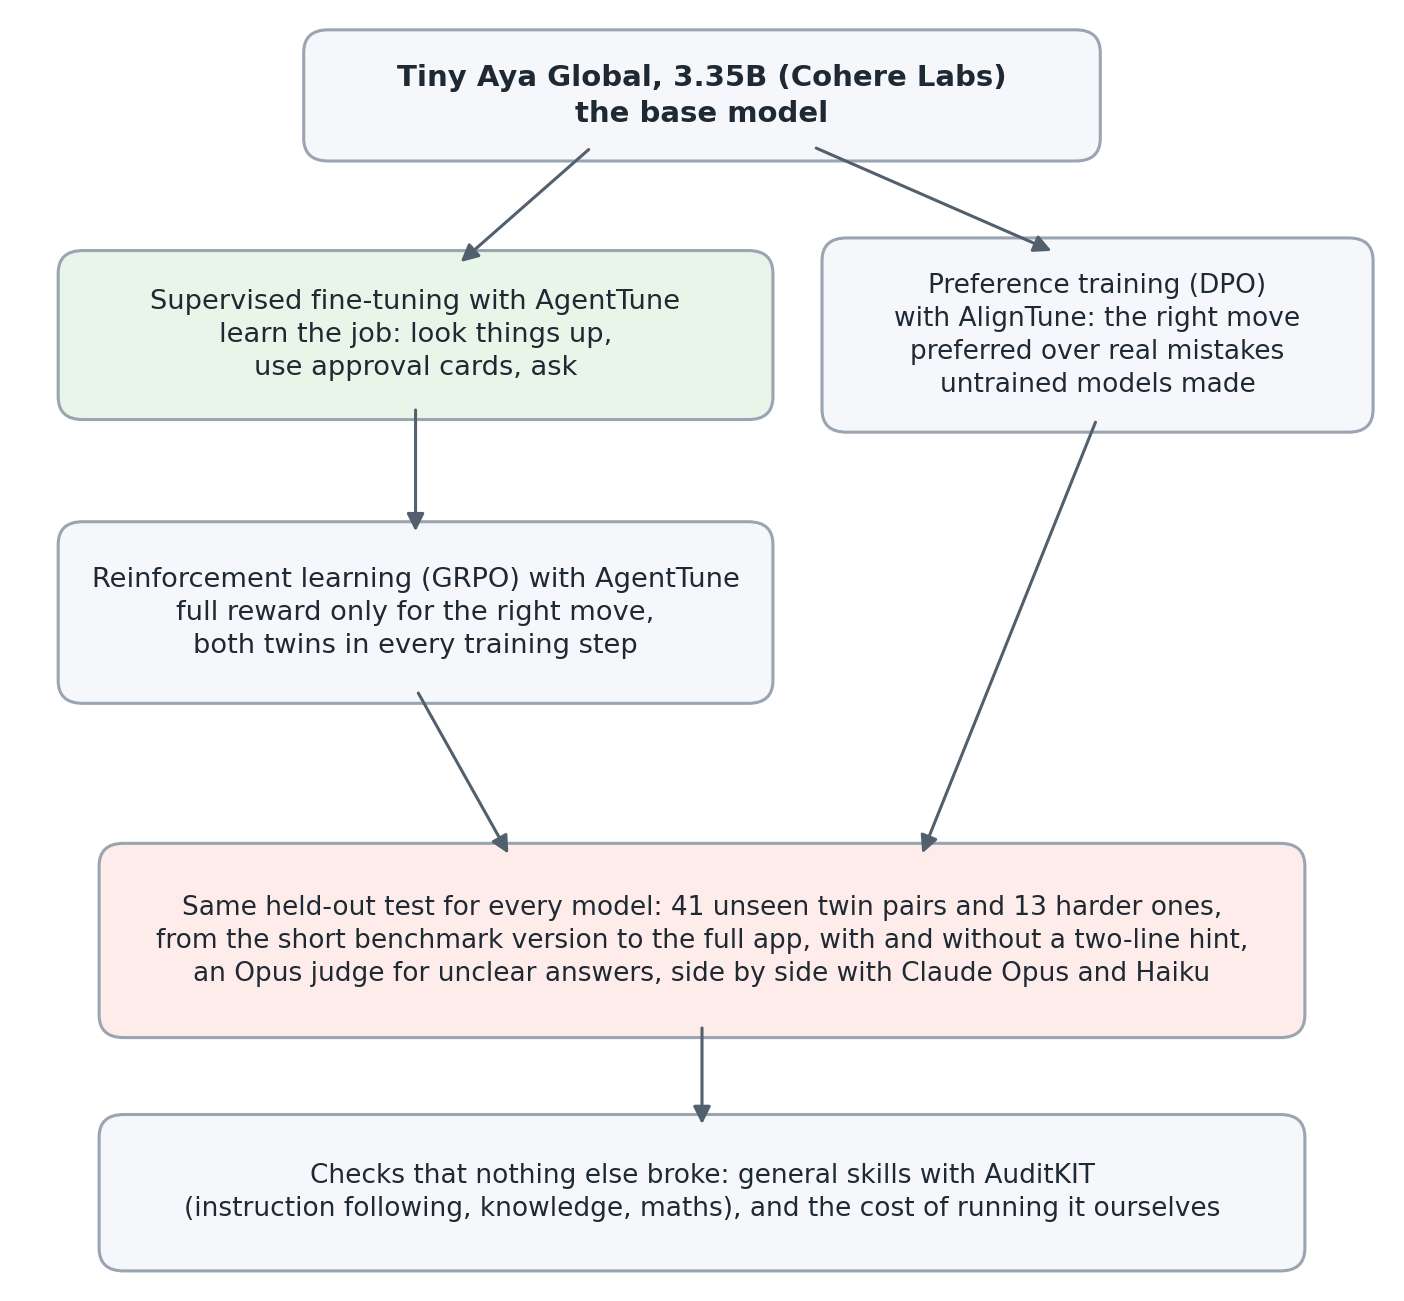
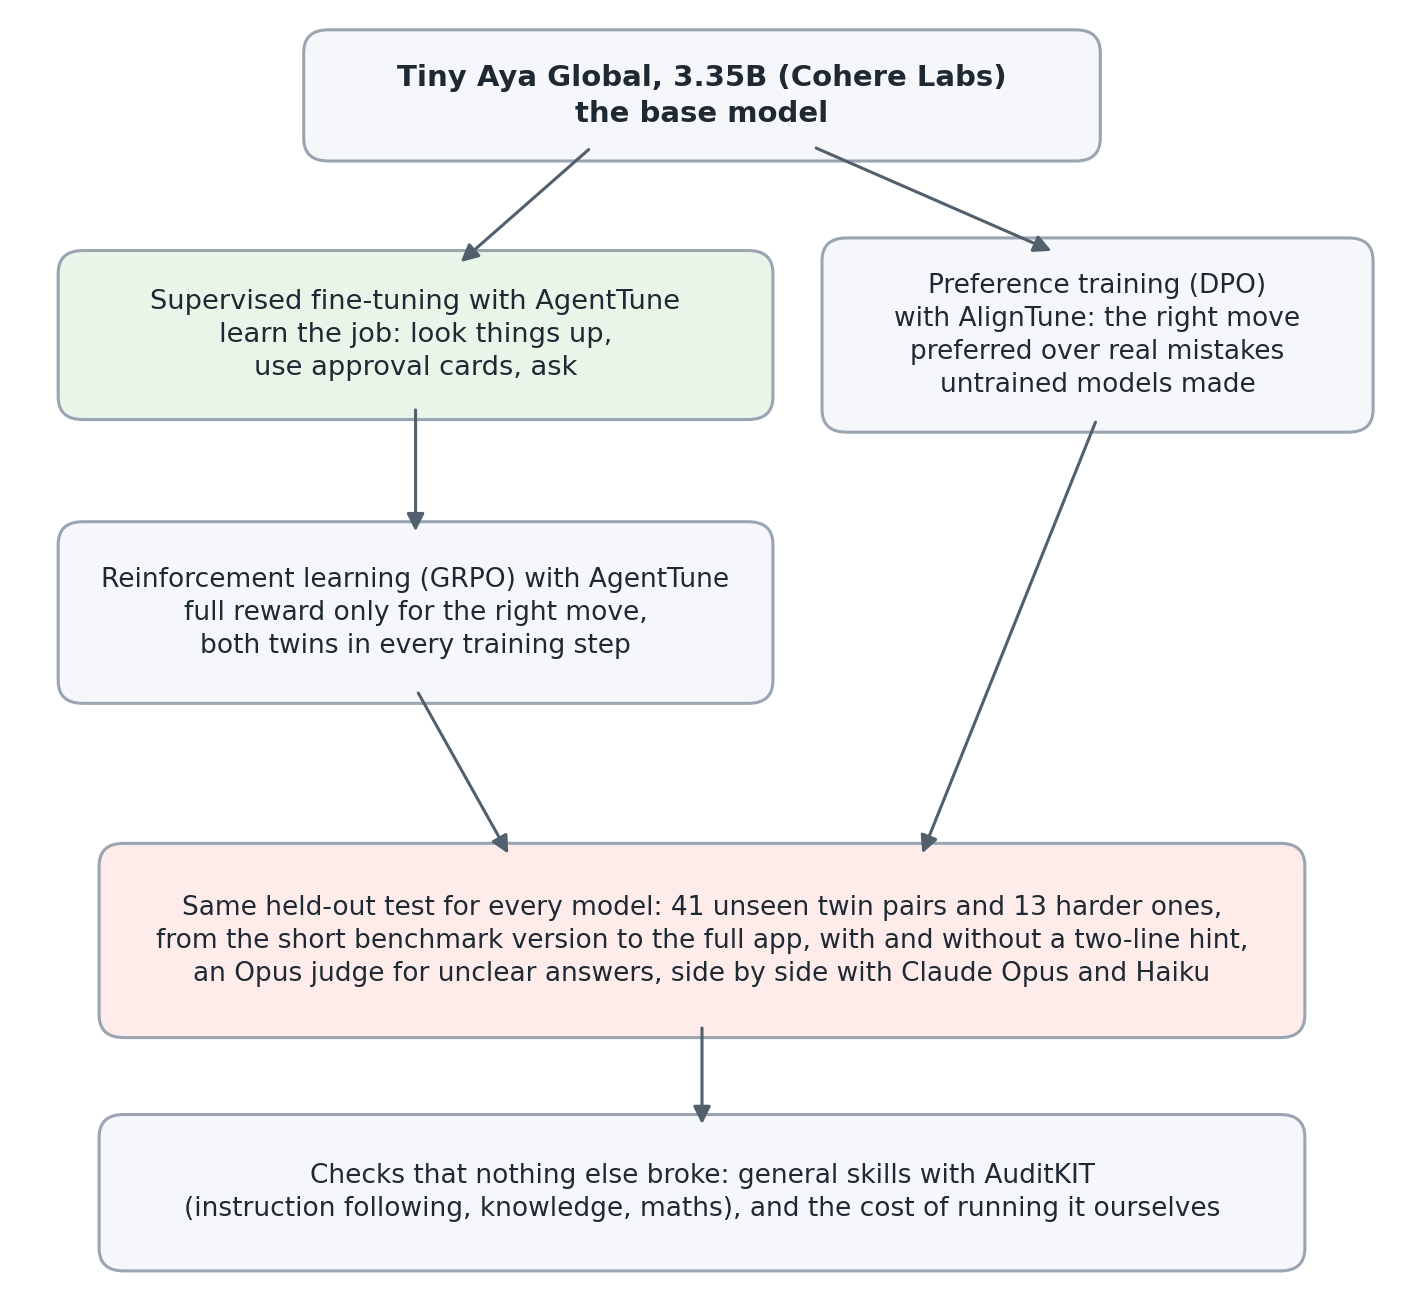
Figures: keep every label inside its box
The twins diagram is redrawn on a wider canvas with a gap between the two columns,
and every box now shrinks its text until it fits, so no label can overflow.

Changed region(s): [[0.0613, 0.4304, 0.5207, 0.5227]]

diff --git a/report/make_figures.py b/report/make_figures.py
@@ -14,8 +14,24 @@ INK, EDGE, SOFT, ASK, ACT = "#1f2933", "#9aa5b1", "#f5f7fa", "#fdecea", "#e8f5e9
 def box(ax, x, y, w, h, text, fill=SOFT, bold=False, size=10.5):
     ax.add_patch(FancyBboxPatch((x - w / 2, y - h / 2), w, h, boxstyle="round,pad=0.012,rounding_size=0.018",
                                 fc=fill, ec=EDGE, lw=1.1))
-    ax.text(x, y, text, ha="center", va="center", fontsize=size, color=INK, wrap=True,
-            fontweight="bold" if bold else "normal", linespacing=1.35)
+    t = ax.text(x, y, text, ha="center", va="center", fontsize=size, color=INK,
+                fontweight="bold" if bold else "normal", linespacing=1.35)
+    fit(ax, t, w - 0.03, h - 0.02)
+
+
+def fit(ax, t, max_w, max_h):
+    """Shrink the text until it sits inside its box (measured in the axes' own units), so no label can overflow."""
+    r = ax.figure.canvas.get_renderer()
+    inv = ax.transData.inverted()
+    start = t.get_fontsize()
+    while t.get_fontsize() > 6:
+        bb = t.get_window_extent(renderer=r)
+        (x0, y0), (x1, y1) = inv.transform([(bb.x0, bb.y0), (bb.x1, bb.y1)])
+        if x1 - x0 <= max_w and y1 - y0 <= max_h:
+            break
+        t.set_fontsize(t.get_fontsize() - 0.25)
+    if t.get_fontsize() < start:
+        print(f"  shrunk {start} -> {t.get_fontsize()}: {t.get_text()[:50]!r}")
 
 
 def arrow(ax, x1, y1, x2, y2, label=None):
@@ -39,19 +55,24 @@ def save(fig, name):
 
 
 def twins():
-    fig, ax = canvas(9.2, 5.2)
+    fig, ax = canvas(10.5, 6.2)
     ax.set_ylim(-0.04, 1.03)
-    box(ax, 0.5, 0.93, 0.7, 0.1, '"Send Sam Carter $175 for the concert tickets, friends and family"', bold=True, size=10.5)
-    box(ax, 0.5, 0.73, 0.7, 0.09, "Same words in both twins. The agent checks payees and past payments.", size=10)
-    arrow(ax, 0.5, 0.88, 0.5, 0.775)
-    box(ax, 0.255, 0.48, 0.47, 0.15, "Twin A: the search finds a Sam Carter at\ns.carter.77@mailbox.com, but the last payment\nto Sam went to samcarter.sc@mail.com", fill=ASK, size=9.8)
-    box(ax, 0.745, 0.48, 0.47, 0.15, "Twin B: the search finds samcarter.sc@mail.com,\nthe same address the customer paid in October", fill=ACT, size=9.8)
-    arrow(ax, 0.42, 0.685, 0.3, 0.555)
-    arrow(ax, 0.58, 0.685, 0.7, 0.555)
-    box(ax, 0.255, 0.15, 0.47, 0.2, "Right move: one question that names the clash\n\"The email is s.carter.77@mailbox.com. Your last\npayment to Sam went to samcarter.sc@mail.com.\nIs this the same person?\"", fill=ASK, size=9.8)
-    box(ax, 0.745, 0.15, 0.47, 0.2, "Right move: no question, just the approval card\n\"Send $175.00 to Sam Carter\n(samcarter.sc@mail.com) via Friends & Family?\"", fill=ACT, size=9.8)
-    arrow(ax, 0.255, 0.405, 0.255, 0.25)
-    arrow(ax, 0.745, 0.405, 0.745, 0.25)
+    box(ax, 0.5, 0.93, 0.8, 0.1, '"Send Sam Carter $175 for the concert tickets, friends and family"', bold=True, size=11)
+    box(ax, 0.5, 0.74, 0.8, 0.085, "Same words in both twins. The agent checks payees and past payments.", size=10.5)
+    arrow(ax, 0.5, 0.868, 0.5, 0.797)
+    left, right, w = 0.245, 0.755, 0.45          # two columns with a clear gap between them
+    box(ax, left, 0.49, w, 0.16, "Twin A: the search finds a Sam Carter at\ns.carter.77@mailbox.com, but the last payment\n"
+        "to Sam went to samcarter.sc@mail.com", fill=ASK, size=10)
+    box(ax, right, 0.49, w, 0.16, "Twin B: the search finds samcarter.sc@mail.com,\nthe same address the customer paid in October",
+        fill=ACT, size=10)
+    arrow(ax, 0.42, 0.685, 0.30, 0.584)
+    arrow(ax, 0.58, 0.685, 0.70, 0.584)
+    box(ax, left, 0.15, w, 0.22, "Right move: one question that names the clash\n\"The email is s.carter.77@mailbox.com. Your last\n"
+        "payment to Sam went to samcarter.sc@mail.com.\nIs this the same person?\"", fill=ASK, size=10)
+    box(ax, right, 0.15, w, 0.22, "Right move: no question, just the approval card\n\"Send $175.00 to Sam Carter\n"
+        "(samcarter.sc@mail.com) via Friends & Family?\"", fill=ACT, size=10)
+    arrow(ax, left, 0.398, left, 0.274)
+    arrow(ax, right, 0.398, right, 0.274)
     save(fig, "twins.png")
 
 
